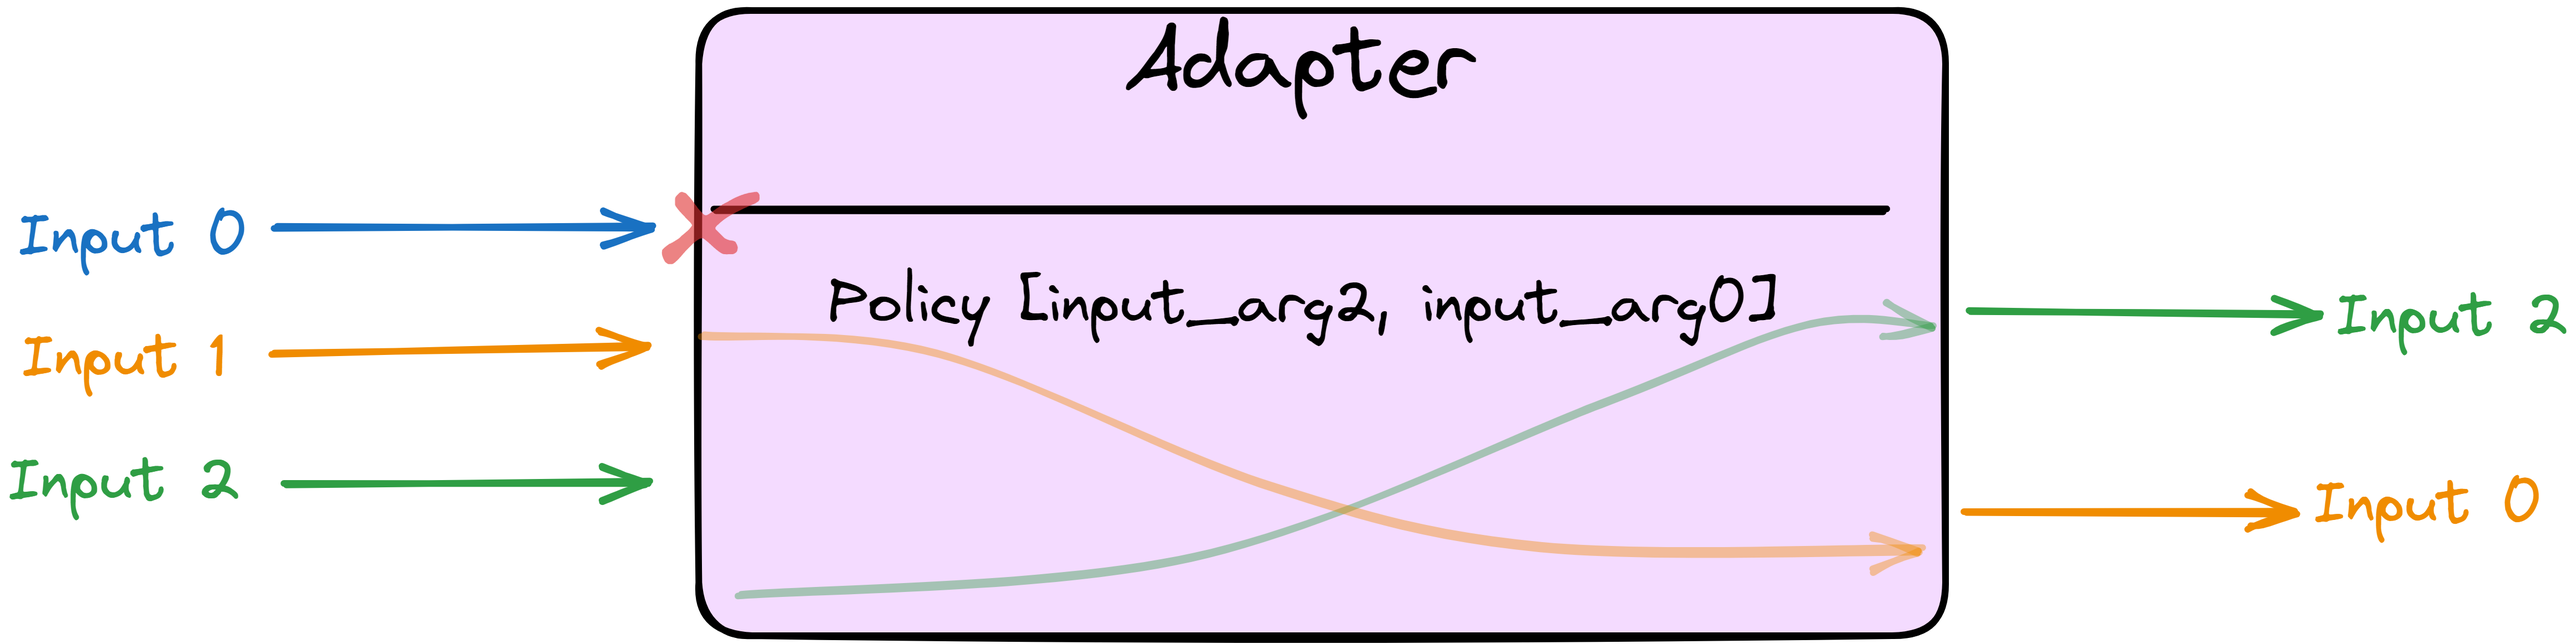
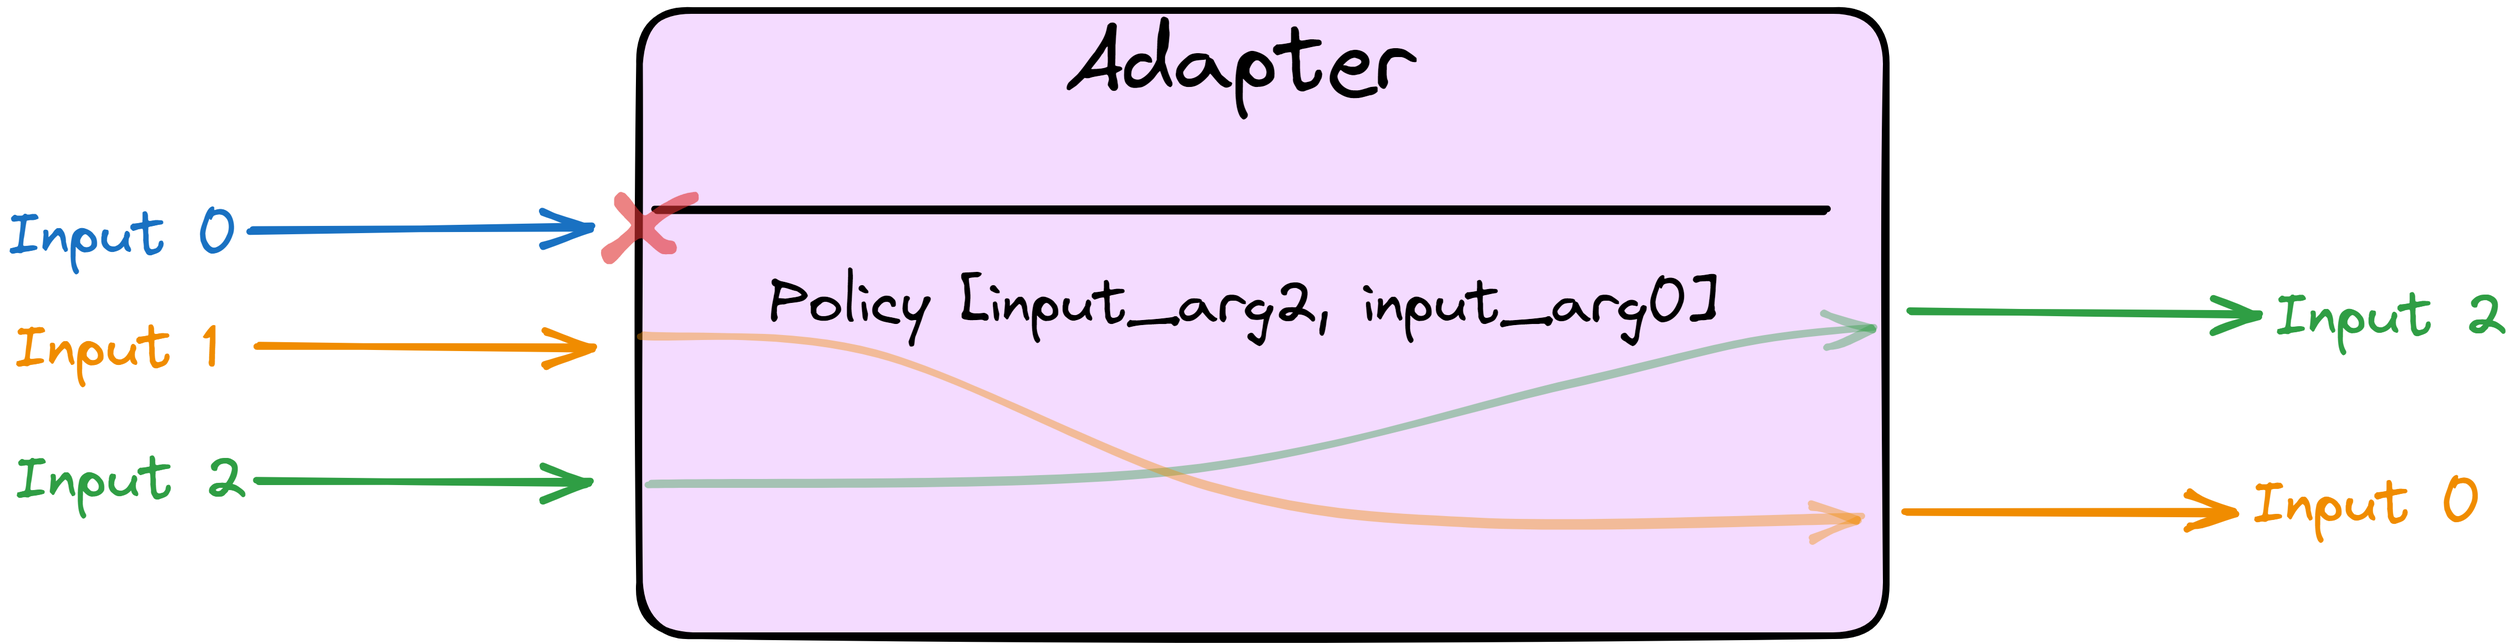
figure centering, comment removal

diff --git a/docs/explain_workflows.rst b/docs/explain_workflows.rst
@@ -31,9 +31,7 @@ For each pipeline component, an `execute()` function is defined that provides a 
 
 Components provide the structure in which user's python code can be easily integrated and deployed for DDP.
 These components are 'empty'; users have total freedom in how to implement each component, after which the Pipeline wrapper ensures DDP deployability. 
-.. (?).
 
-.. structures are `empty`
 
 Datagetter
 ^^^^^^^^^^^^^^
@@ -49,6 +47,7 @@ As such, the user is unconstrained in terms of dataset format, structure, or siz
 
 .. image:: figures/comp_Get.png
     :scale: 12%
+    :align: center
 
 
 Datasplitter
@@ -57,11 +56,14 @@ The `split` component splits a given dataset into three outputs following a user
 These three outputs will be passed on and used as train, validation, and test sets.
 The splitting method is defined by the user. 
 
-.. Are any broad examples available?
+.. 
+    _Are any broad examples available?
 
 
 .. image:: figures/comp_Split.png
     :scale: 12%
+    :align: center
+
 
 Dataprocessor
 ^^^^^^^^^^^^^^^^
@@ -73,6 +75,7 @@ However, as the components leave the implementation method undefined, there is n
 
 .. image:: figures/comp_Proc.png
     :scale: 12%
+    :align: center
 
 
 DataTrainer
@@ -82,6 +85,7 @@ Taking train, test, and validation datasets as inputs, the Datatrainer returns i
 
 .. image:: figures/comp_Train.png
     :scale: 12%
+    :align: center
 
 DataAdapt
 ^^^^^^^^^^^^^^
@@ -94,6 +98,7 @@ The user then defines which inputs they want passed on and in what order these s
 .. image:: figures/comp_Adapt.png
     :scale: 12%
     :align: center
+
 
 An example of this is shown in the diagram below.
 In this case, the DataAdapt component receives three inputs.
@@ -116,6 +121,7 @@ In order to gauge the performance of the trained model, the Datapredict componen
 
 .. image:: figures/comp_Predict.png
     :scale: 12%
+    :align: center
 
 
 .. note::
@@ -140,4 +146,4 @@ Upon execution, each component will run in turn and automatically pass on its ou
 
 Example notebook
 ===================
-:doc:`notebooks/tutorial_0_basic_workflow`
+:doc:`Basic workflow tutorial <notebooks/tutorial_0_basic_workflow>`

diff --git a/docs/tutorials.rst b/docs/tutorials.rst
@@ -42,12 +42,13 @@ Here you can find a collection of tutorials for various complexity ML workflows.
 .. toctree::
    :maxdepth: 1
    
-   basic_comp
-   intermediate_workflow
-   advanced_workflow   
    notebooks/tutorial_0_basic_workflow
    notebooks/tutorial_1_intermediate_workflow
    notebooks/tutorial_2_advanced_workflow
-   
+..
+   basic_comp
+   intermediate_workflow
+   advanced_workflow  
+ 
 
    
